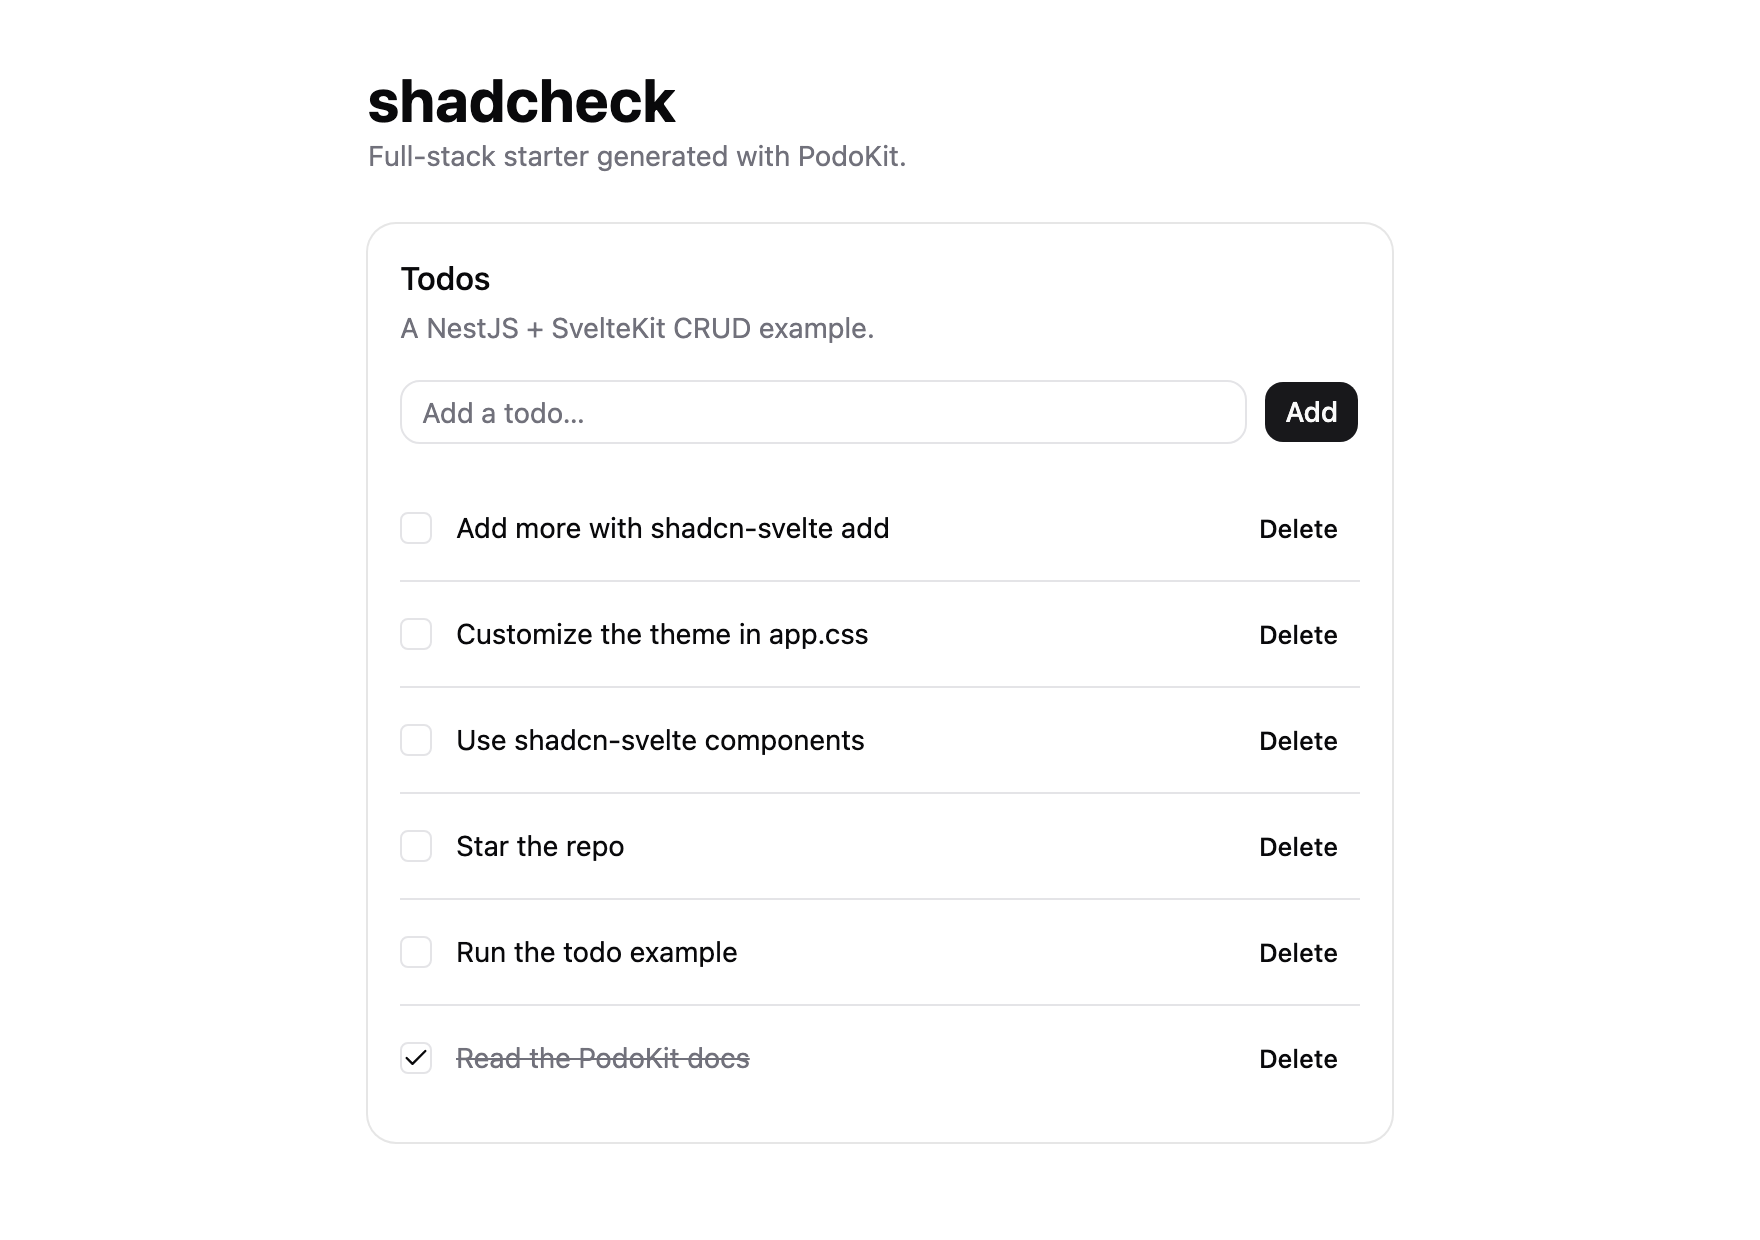
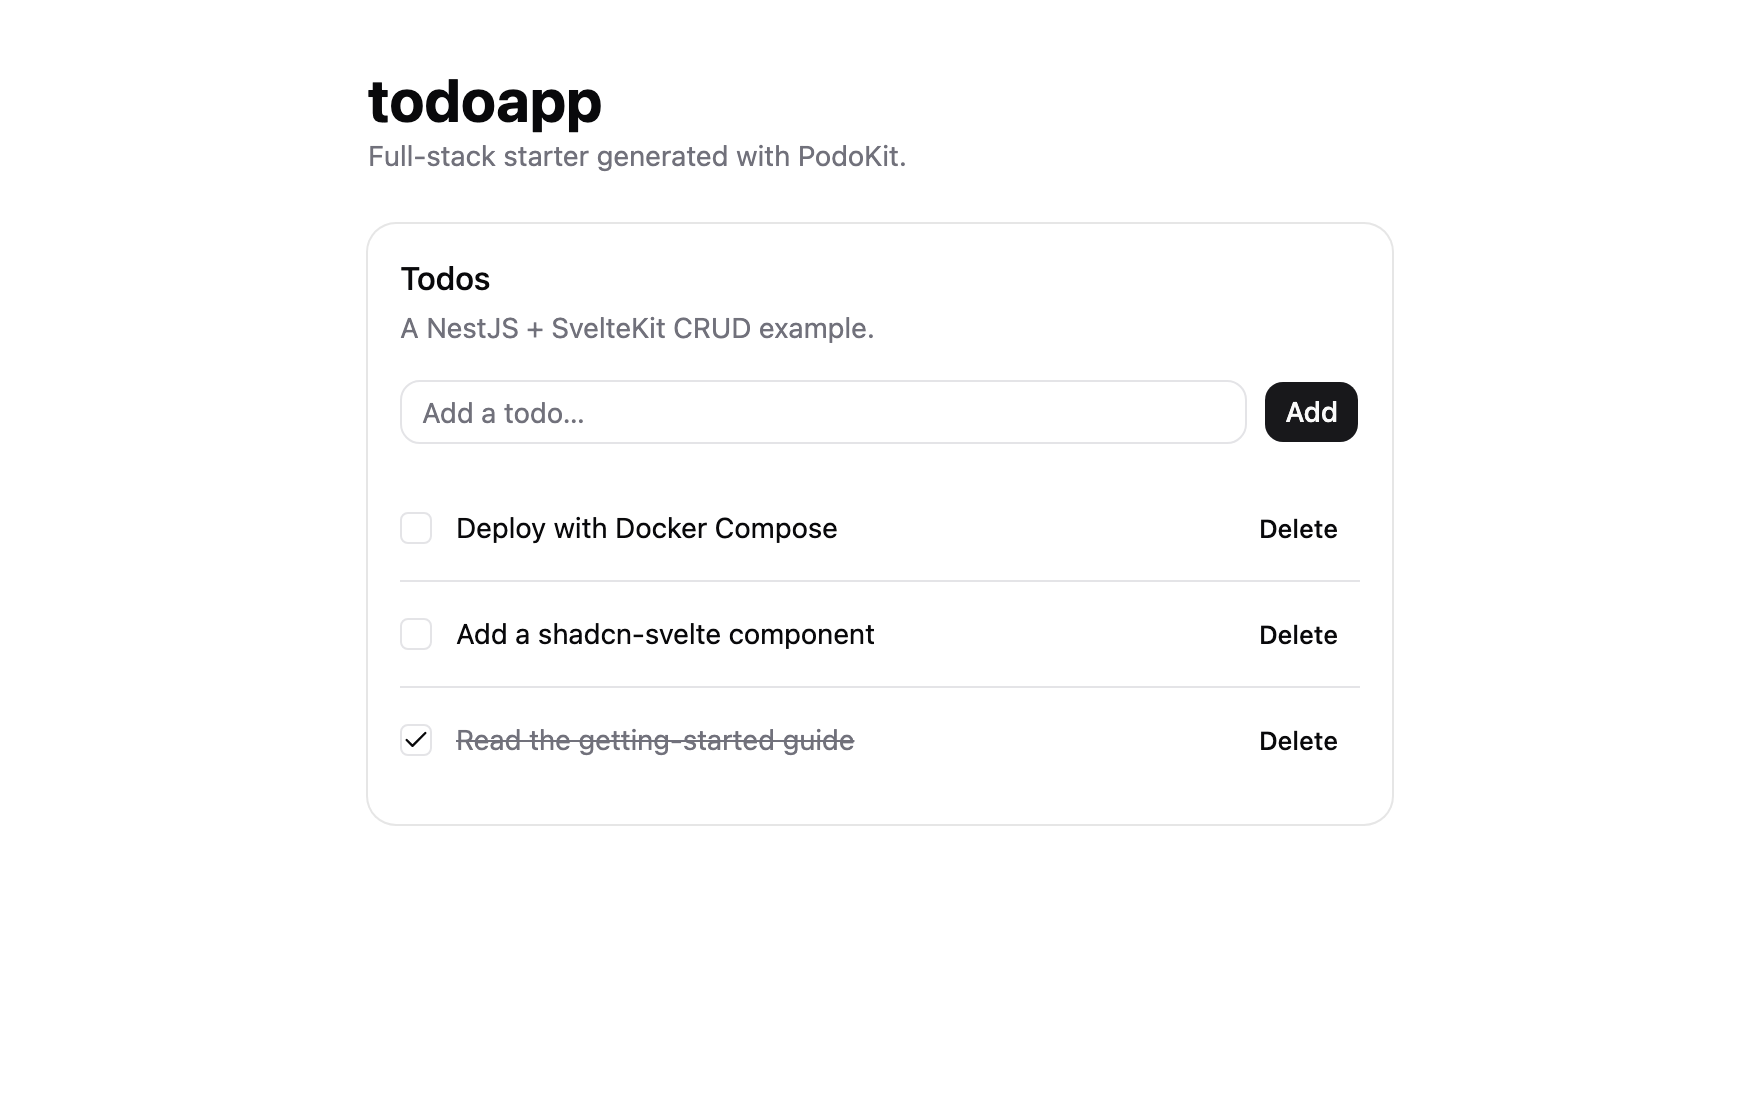
docs: refresh screenshots with shadcn UI; fix template docs (#17)
- recapture the todo UI (shadcn Card/Input/Button/Checkbox) and API docs
  from a clean run, replacing the example images
- correct the shadcn style to nova and note the preinstalled components

diff --git a/docs/templates.md b/docs/templates.md
@@ -28,7 +28,8 @@ apps/
       lib/server/      # backend-proxy: header allowlist to the API
       lib/i18n/        # typesafe-i18n scaffold (en, ko)
       app.css          # TailwindCSS v4 (@import "tailwindcss")
-    components.json    # shadcn-svelte config (new-york / zinc)
+    lib/components/ui/ # shadcn-svelte components (button, input, card, …)
+    components.json    # shadcn-svelte config (nova / zinc)
     Dockerfile
 infra/
   docker/docker-compose.yml   # PostgreSQL + Redis (healthchecks)

diff --git a/packages/cli/README.md b/packages/cli/README.md
@@ -81,7 +81,7 @@ my-app/
 Highlights of the generated app:
 
 - **Backend (NestJS)** — bootstrap with a global `ValidationPipe` and exception filter, typed environment validation, a `/health` endpoint, and a stable `{ success, error: { code, ... } }` response envelope.
-- **Frontend (SvelteKit)** — TailwindCSS v4 (config-less), shadcn-svelte configuration, a typesafe-i18n scaffold, and a **server-side proxy** so the browser never calls the API directly.
+- **Frontend (SvelteKit)** — TailwindCSS v4 (config-less), **shadcn-svelte components preinstalled** (button, input, card, checkbox, label), a typesafe-i18n scaffold, and a **server-side proxy** so the browser never calls the API directly.
 - **Infra** — Docker Compose for local PostgreSQL and Redis, plus example k3s manifests (standard `Ingress`, `secret.example.yaml`).
 
 ## Status